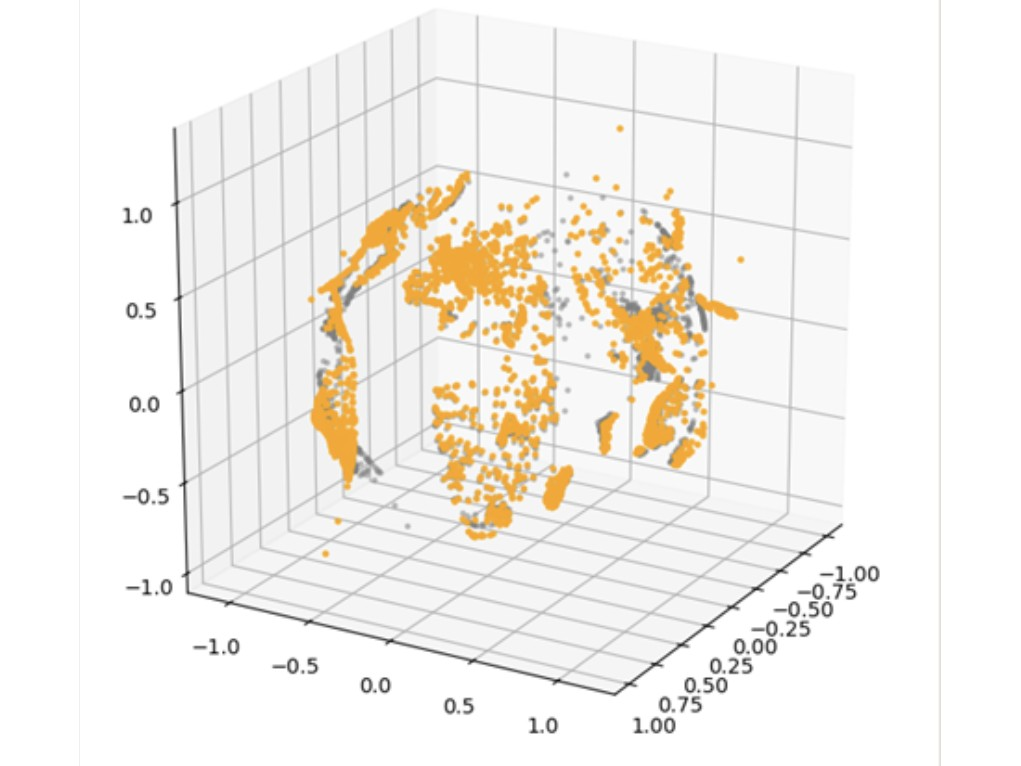
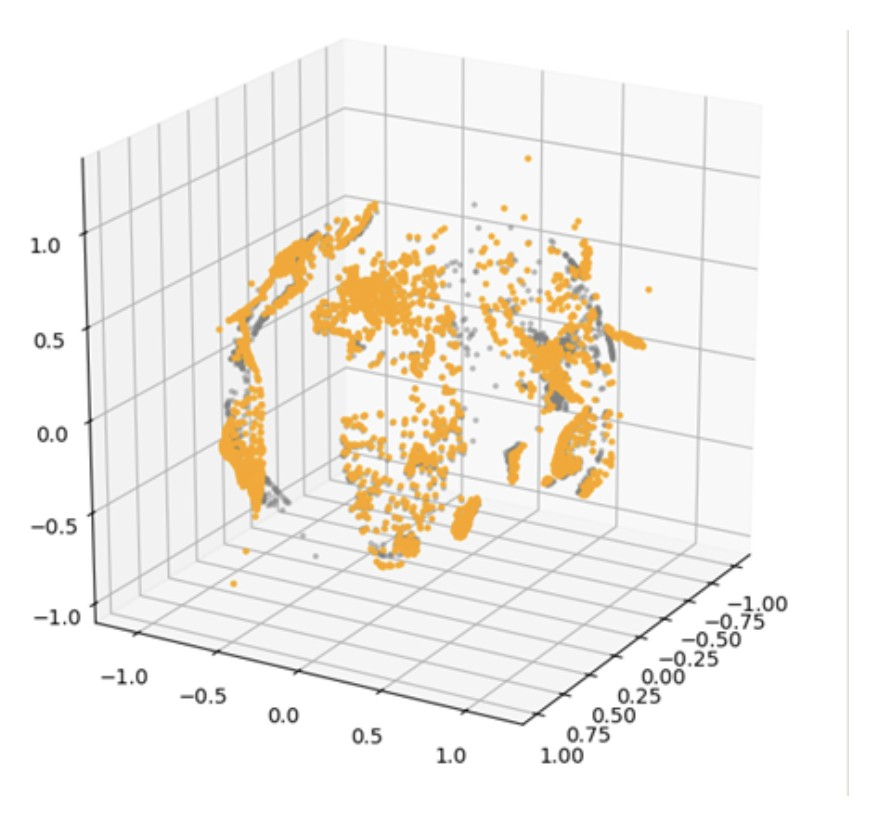
Project images fill their panels edge-to-edge
- object-fit cover, images trimmed of white padding
- capstone rebuilt as portrait pipeline: food bowl -> forest -> phe structure (no text label)
- energy: full load-zone map stacked with validation MAPE chart from the deck
- movie scatter crop anchored at the y-axis

Claude-Session: https://claude.ai/code/session_01RyXLGAPrDZsCLgewXzoRKS

diff --git a/projects.html b/projects.html
@@ -8,7 +8,7 @@
   <link rel="preconnect" href="https://fonts.googleapis.com" />
   <link rel="preconnect" href="https://fonts.gstatic.com" crossorigin />
   <link href="https://fonts.googleapis.com/css2?family=JetBrains+Mono:wght@400;500;700;800&family=IBM+Plex+Mono:wght@400;500;600&display=swap" rel="stylesheet" />
-  <link rel="stylesheet" href="css/style.css?v=24" />
+  <link rel="stylesheet" href="css/style.css?v=25" />
 </head>
 <body>
 
@@ -163,7 +163,7 @@
           </div>
           </div>
           <figure class="project-media" data-file="movie-recs.jpg">
-            <img src="assets/projects/photos/movie-recs.jpg" alt="Movie recommendation system project" loading="lazy"
+            <img src="assets/projects/photos/movie-recs.jpg" alt="Movie recommendation system project" loading="lazy" style="object-position:12% 50%"
                  onerror="this.parentElement.classList.add('empty')" />
           </figure>
         </article>

diff --git a/github.html b/github.html
@@ -8,7 +8,7 @@
   <link rel="preconnect" href="https://fonts.googleapis.com" />
   <link rel="preconnect" href="https://fonts.gstatic.com" crossorigin />
   <link href="https://fonts.googleapis.com/css2?family=JetBrains+Mono:wght@400;500;700;800&family=IBM+Plex+Mono:wght@400;500;600&display=swap" rel="stylesheet" />
-  <link rel="stylesheet" href="css/style.css?v=24" />
+  <link rel="stylesheet" href="css/style.css?v=25" />
 </head>
 <body>
 

diff --git a/illustrations.html b/illustrations.html
@@ -8,7 +8,7 @@
   <link rel="preconnect" href="https://fonts.googleapis.com" />
   <link rel="preconnect" href="https://fonts.gstatic.com" crossorigin />
   <link href="https://fonts.googleapis.com/css2?family=JetBrains+Mono:wght@400;500;700;800&family=IBM+Plex+Mono:wght@400;500;600&display=swap" rel="stylesheet" />
-  <link rel="stylesheet" href="css/style.css?v=24" />
+  <link rel="stylesheet" href="css/style.css?v=25" />
 </head>
 <body>
 

diff --git a/index.html b/index.html
@@ -8,7 +8,7 @@
   <link rel="preconnect" href="https://fonts.googleapis.com" />
   <link rel="preconnect" href="https://fonts.gstatic.com" crossorigin />
   <link href="https://fonts.googleapis.com/css2?family=JetBrains+Mono:wght@400;500;700;800&family=IBM+Plex+Mono:wght@400;500;600&display=swap" rel="stylesheet" />
-  <link rel="stylesheet" href="css/style.css?v=24" />
+  <link rel="stylesheet" href="css/style.css?v=25" />
 </head>
 <body>
 

diff --git a/resume.html b/resume.html
@@ -8,7 +8,7 @@
   <link rel="preconnect" href="https://fonts.googleapis.com" />
   <link rel="preconnect" href="https://fonts.gstatic.com" crossorigin />
   <link href="https://fonts.googleapis.com/css2?family=JetBrains+Mono:wght@400;500;700;800&family=IBM+Plex+Mono:wght@400;500;600&display=swap" rel="stylesheet" />
-  <link rel="stylesheet" href="css/style.css?v=24" />
+  <link rel="stylesheet" href="css/style.css?v=25" />
 </head>
 <body>
 

diff --git a/css/style.css b/css/style.css
@@ -773,7 +773,7 @@ body.leaving .container { animation-delay: 0.05s; }
   inset: 0;
   width: 100%;
   height: 100%;
-  object-fit: contain;
+  object-fit: cover;
   display: block;
 }
 
